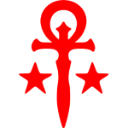
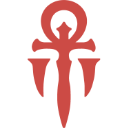
Improve dice emoji

Changed region(s): [[0.125, 0.0, 0.875, 1.0]]

diff --git a/inconnu/roll/dicemoji.py b/inconnu/roll/dicemoji.py
@@ -4,9 +4,9 @@ __EMOJIS = {
     "n_crit": "<:n_crit:883181399417434132>",
     "n_succ": "<:n_succ:883181399438417940>",
     "n_fail": "<:n_fail:883181399539077163>",
-    "h_crit": "<:h_crit:883181399107043429>",
-    "h_succ": "<:h_succ:883181399371300974>",
-    "h_fail": "<:h_fail:883181399400661042>",
+    "h_crit": "<:h_crit:888880025082953769>",
+    "h_succ": "<:h_succ:888880025493962813>",
+    "h_fail": "<:h_fail:888880025359757402>",
     "h_bestial": "<:h_bestial:883189689895501844>"
 }
 
